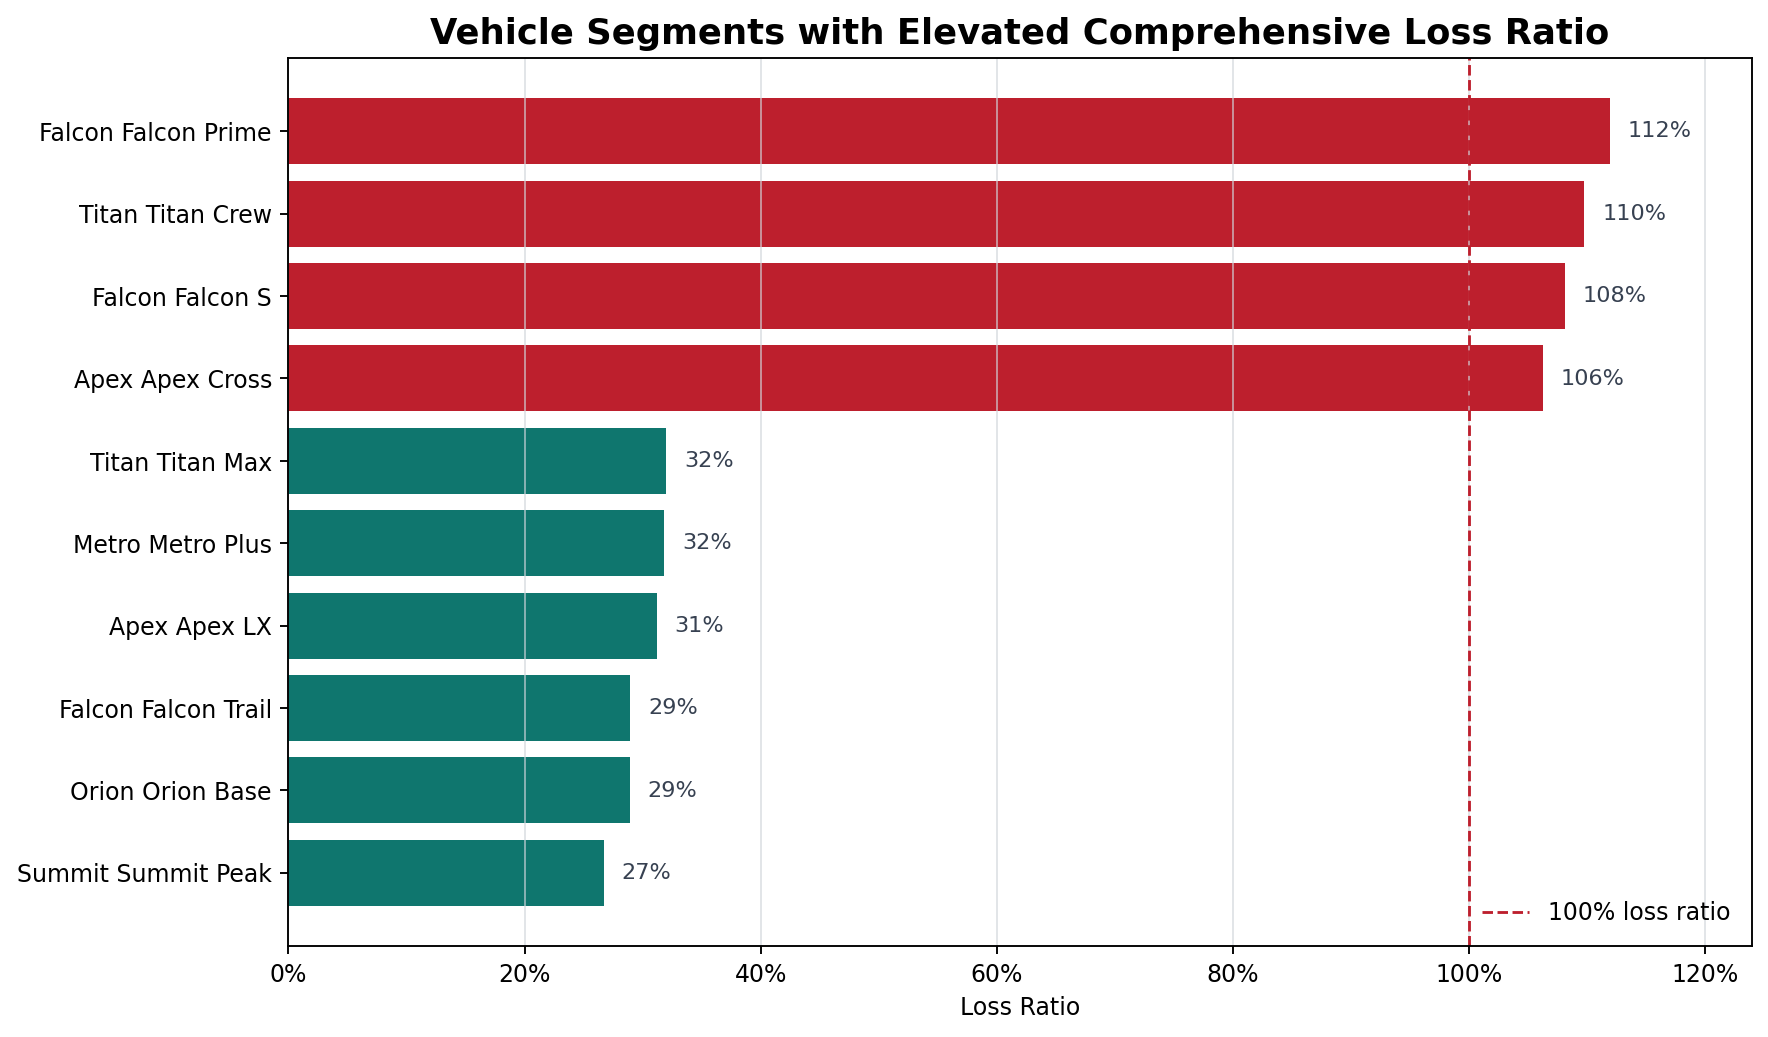
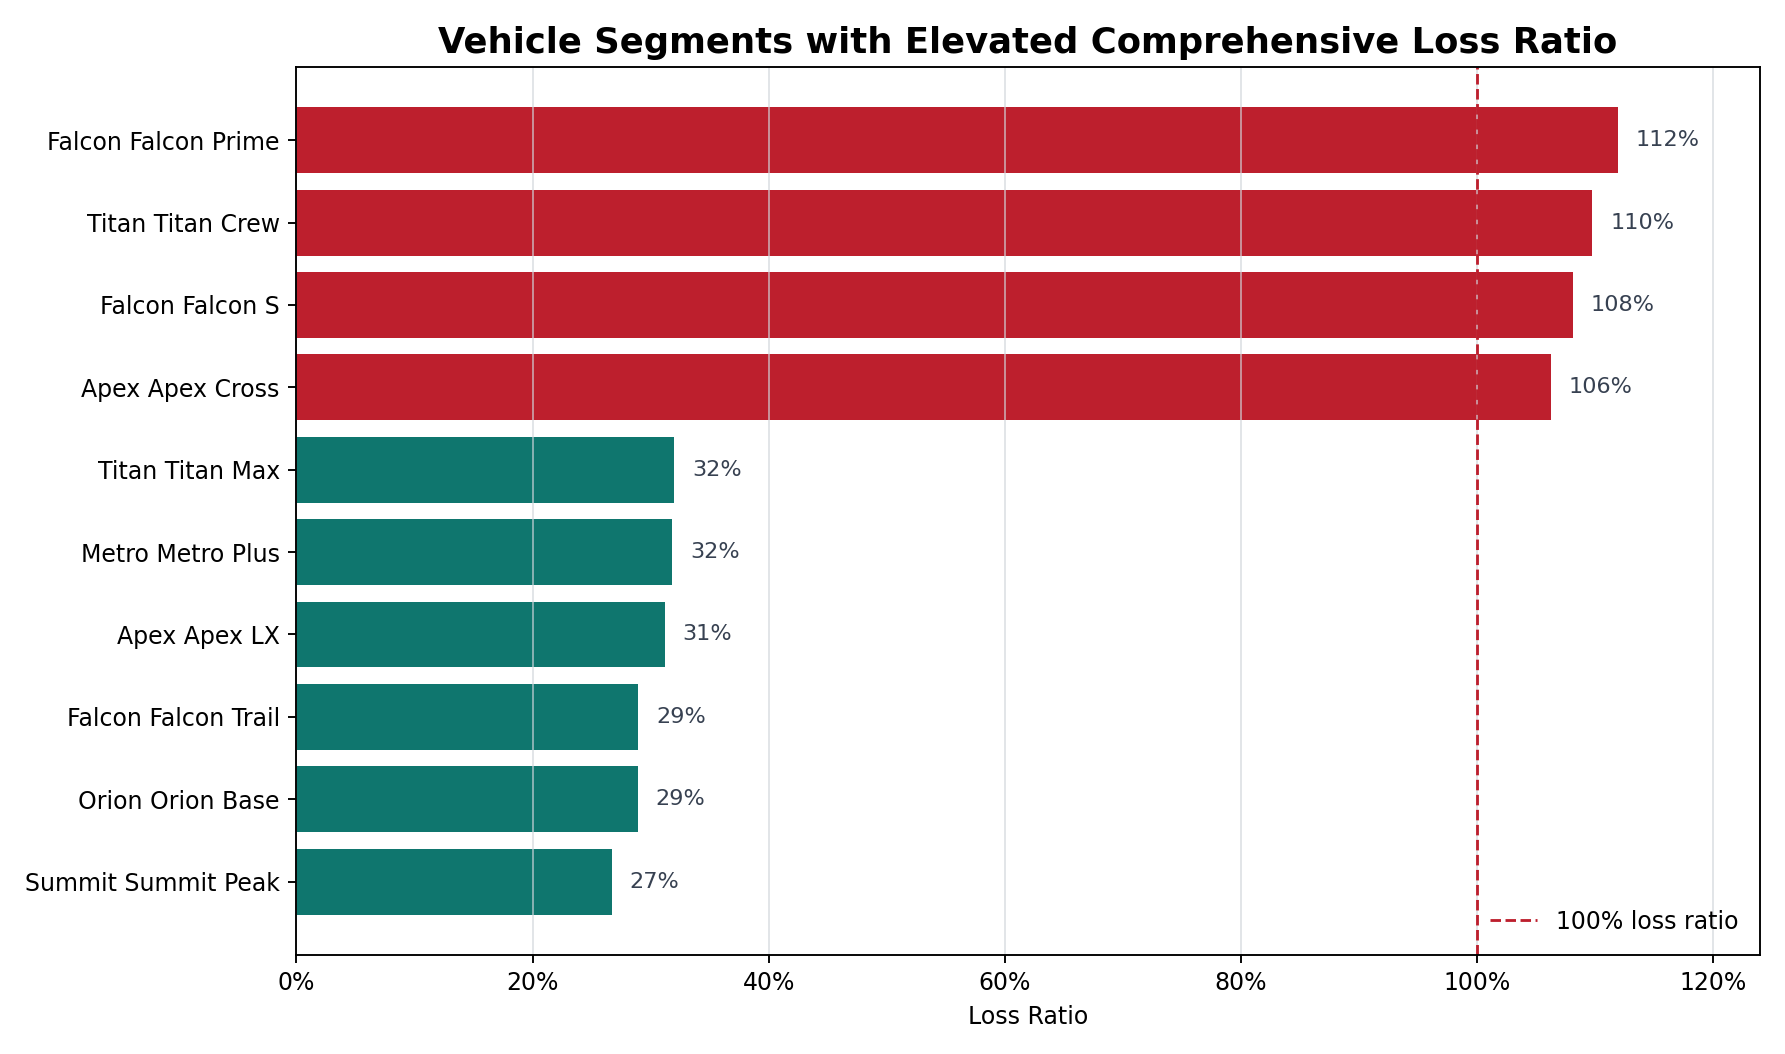
Remove equal gallery letterboxing

diff --git a/styles.css b/styles.css
@@ -365,10 +365,7 @@ h5 {
 }
 
 .equal-gallery .project-visual {
-  height: 220px;
-  display: flex;
-  align-items: center;
-  justify-content: center;
+  width: 100%;
 }
 
 .project-visual img {
@@ -378,7 +375,7 @@ h5 {
 }
 
 .equal-gallery .project-visual img {
-  height: 100%;
+  height: auto;
 }
 
 .skills-list div {